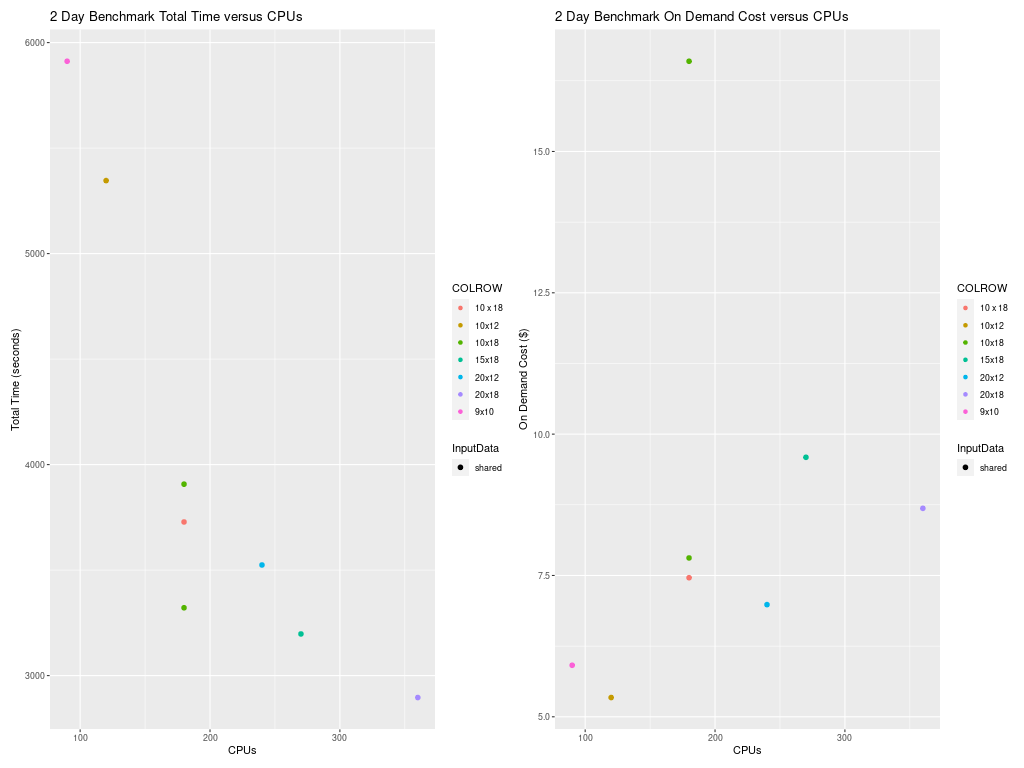
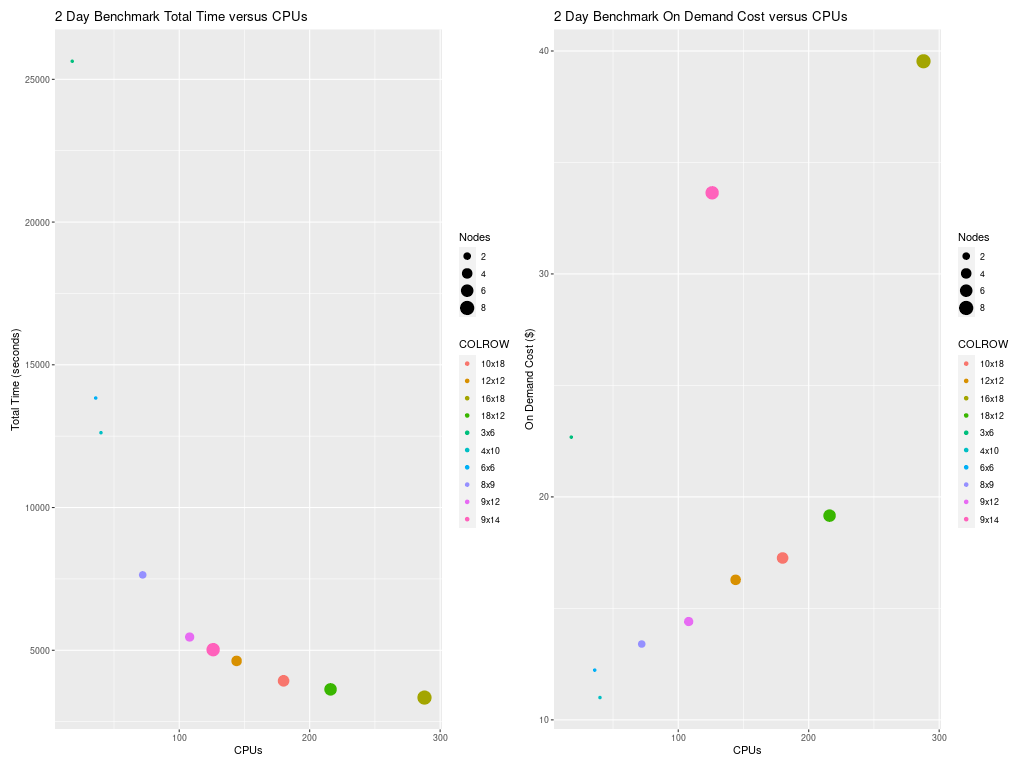
update

diff --git a/docs/user_guide_cyclecloud/Performance-Opt/performance-optimization.md b/docs/user_guide_cyclecloud/Performance-Opt/performance-optimization.md
@@ -1,9 +1,49 @@
-## Performance Optimization for Cycle Cloud
+Performance Optimization for Cycle Cloud
+
+## Right-sizing Compute Nodes for the CycleCloud
+
+Selection of the compute nodes depends on the domain size and resolution for the CMAQ case, and what your model run time requirements are.
+Larger hardware and memory configurations may also be required for instrumented versions of CMAQ incuding CMAQ-ISAM and CMAQ-DDM3D.
+The CycleCloud allows you to run the compute nodes only as long as the job requires, and you can also update the compute nodes as needed for your domain.
+
+## An explanation of why a scaling analysis is required for Multinode or Parallel MPI Codes
+
+Quote from the following link.
+
+"IMPORTANT: The optimal value of --nodes and --ntasks for a parallel code must be determined empirically by conducting a scaling analysis. As these quantities increase, the parallel efficiency tends to decrease. The parallel efficiency is the serial execution time divided by the product of the parallel execution time and the number of tasks. If multiple nodes are used then in most cases one should try to use all of the CPU-cores on each node."
+
+```{note}
+For the scaling analysis that was performed with CMAQ, the parallel efficiency was determined as the runtime for the smallest number of CPUs divided by the product of the parallel execution time and the number of additional cpus used. If smallest NPCOLxNPROW configuration was 18 cpus, the run time for that case was used, and then the parallel efficiency for the case where 36 cpus were used would be parallel efficiency = runtime_18cpu/(runtime_36cpu*2)*100
+```
+
+```{seealso}
+<a href="https://researchcomputing.princeton.edu/support/knowledge-base/scaling-analysis">Scaling Analysis - see section on Multinode or Parallel MPI Codes</a>
+
+<a href="https://researchcomputing.princeton.edu/support/knowledge-base/slurm#multinode">Example Slurm script for Multinode Runs</a>
+```
+
+## Slurm Compute Node Provisioning
+
+Azure CycleCloud relies on SLURM to make the job allocation and scaling decisions. The jobs are launched, terminated, and resources maintained according to the Slurm instructions in the CMAQ run script. The CycleCloud Web Interface is used to set the identity of the head node and the compute node, and the maximum number of compute nodes that can be submitted to the queue. 
+
+Number of compute nodes dispatched by the slurm scheduler is specified in the run script using #SBATCH --nodes=XX #SBATCH --ntasks-per-node=YY where the maximum value of tasks per node or YY limited by many CPUs are on the compute node.
+
+As an example:
+
+For HC44rs, there are 44 CPUs/node, so maximum value of YY is 44 or --ntask-per-node=44.
+For many of the runs that were done, we set --ntask-per-node=36 so that we could compare to the c5n.9xlarge on Parallel Cluster
+
+If running a job with 180 processors, this would require the --nodes=XX or XX to be set to 5 compute nodes, as 36x5=180.
+
+The setting for NPCOLxNPROW must also be a maximum of 180, ie. 18 x 10 or 10 x 18 to use all of the CPUs in the parallel cluster.
+
+For HBv120, there are 120 CPUS/node, so maximum value of YY is 120 or --ntask-per-node=120.
+
+If running a job with 240 processors, this would require the --nodes=XX or XX to be set to 2 compute nodes, as 120x2=240.
 
 <a href="https://azure.com/e/a5d6f8654d634e8b93973574cbda428d">Azure HBv3-120 Pricing</a>
 
 ![Azure HPC HBv3_120pe Pricing](./Azure_HPC_HBv3_Pricing.png)
-
 
 
 Table 1. Azure Instance On-Demand versus Spot Pricing (price is subject to change)
@@ -99,6 +139,26 @@ BogoMIPS:              5387.52
 | 180 |  5 |  5x36     | 10x18            |  2077.22   |   1851.77   | 3928.99   |  .545 | no |   $.3168/hr * 5 nodes * 1.09 = | $1.72 | 3.168/hr * 5 nodes * 1.09 = | 17.26   | with -march=native compiler flag | /shared |
 | 216 |  6  |  6x36     | 18x12            |  1908.15   | 1722.07    | 3630.22    |  .504 | no   |  $.3168/hr * 6 nodes * 1.01 = | $1.92 |  3.168/hr * 6 nodes * 1.01 = | 19.16 | with -march=native compiler flag  | /shared |
 | 288 |  8  |  8x36     | 16x18            |  1750.36   |  1593.29    |   3343.65 |  .464 | no |   $.3168/hr * 8 nodes * .928 = | $2.35 | 3.168/hr * 8 nodes * .928 = | 39.54   | with -march=native compiler flag | /shared | 
+
+# Benchmark Scaling Plots
+
+## Benchmark Scaling Plot for HC44rs
+
+Figure 1. Scaling per Node on HC44rs Compute Nodes (44 cpu/node)
+
+![Scaling per Node for HC44rs Compute Nodes (44cpu/node)](../../qa_plots/scaling_plots/hc44rs_Scaling_Node.png)
+
+Figure 2. Scaling per CPU on HC44rs Compute Nodes (44 cpu/node)
+
+![Scaling per CPU for HC44rs Comput Nodes (44cpu/node)]((../../qa_plots/scaling_plots/hc44rs_Scaling_CPUs.png)
+
+Figure 3.  Scaling per Node on HBv120 Compute Nodes (120 cpu/node)
+
+![Scaling per Node for HBv120 Compute Nodes (120cpu/node](../../qa_plots/scaling_plots/hbv120_Scaling_Node.png)
+
+Figure 4. Scaling per CPU on HBv120 Compute Node (120 cpu/node)
+
+![Scaling per CPU for HBv120 Compute Nodes (120cpu/node](../../qa_plots/scaling_plots/hbv120_Scaling_CPUs.png)
 
 
 
